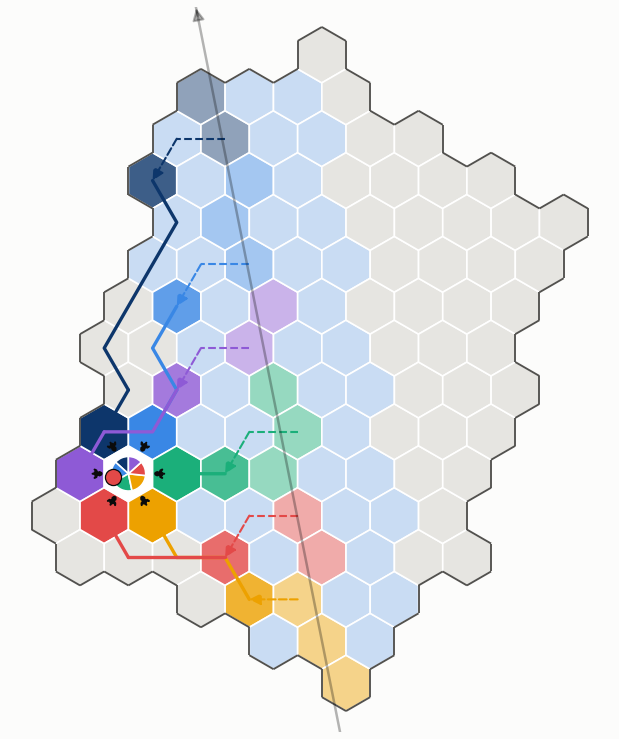
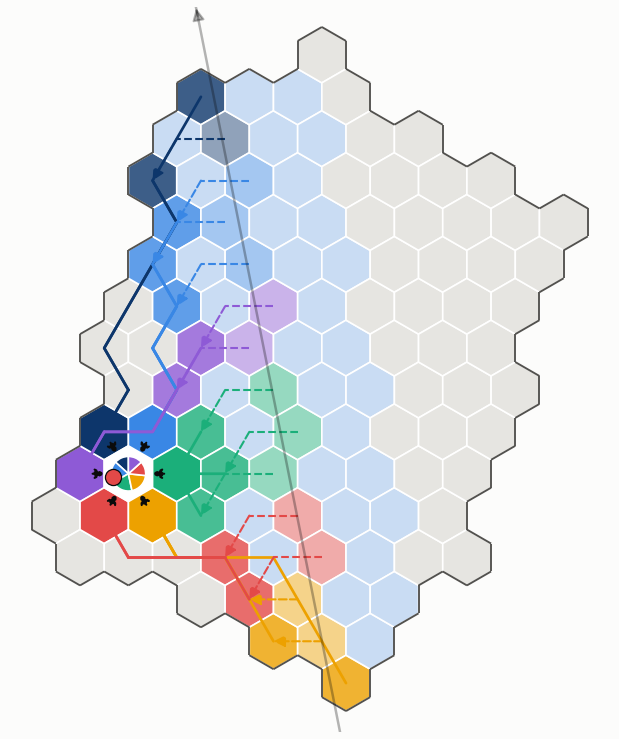
uav-coop2: layer-3 review — Circle fetches each Seg from its own Bank, paths may cross the River, after-pass algorithms 5-7 and execution conventions; trial plan (TRIAL-vi.md); CLAUDE.md §8 message 47
Claude-Session: https://claude.ai/code/session_01Anfb7cgF7DRSZmbbNnHpxR

diff --git a/uav-coop2/tools/concept_cells.py b/uav-coop2/tools/concept_cells.py
@@ -16,9 +16,9 @@ critical cells, Circle.
                  the best within two rings and above mean + 1 sd
   Circle         the 6 neighbours of a critical cell; the Axe is cut into 6 consecutive
                  stretches, one per neighbour (further along the flight -> further along the
-                 Axe); each neighbour fetches its stretch from the nearest of that stretch's
-                 Banks, along a cell path that avoids the Axe and the critical cell, and hands
-                 it over on request
+                 Axe); each neighbour fetches Seg(a) of every Axe cell a in its stretch from a's
+                 own Bank (the side nearer the neighbour), along shortest cell paths that avoid
+                 only the critical cell, and hands it over on request
 """
 import argparse, csv, math, os
 from collections import deque
@@ -258,11 +258,13 @@ def main():
         mine = [g for g in axe if owner[g] == j]
         if not mine:
             continue
-        # the nearest of this stretch's Banks (either side) to the neighbour
-        b = min({pair[(g, s_)][0] for g in mine for s_ in (0, 1)},
-                key=lambda b: (hexdist(b, h), math.dist(c[b], c[h])))
-        used[j] = (mine, b)
-        col[b] = matplotlib.colors.to_rgba(CAT[j], .8)
+        # each Axe cell's Seg comes from that cell's own Bank, the side nearer the neighbour
+        src = []
+        for g in mine:
+            s_ = min((0, 1), key=lambda s_: (hexdist(pair[(g, s_)][0], h), math.dist(c[pair[(g, s_)][0]], c[h])))
+            src.append((g, s_, pair[(g, s_)][0]))
+            col[pair[(g, s_)][0]] = matplotlib.colors.to_rgba(CAT[j], .8)
+        used[j] = (mine, src)
     frame(ax, col, .3)
     share = [len(used[j][0]) if j in used else 0 for j in range(6)]
     a0 = 90.0
@@ -271,11 +273,12 @@ def main():
             a1 = a0 + 360 * share[j] / len(axe)
             ax.add_patch(Wedge(c[cc], R * .62, a0, a1, facecolor=CAT[j], edgecolor="#ffffff", lw=.8, zorder=4))
             a0 = a1
-    for j, (mine, b) in used.items():
-        g, s_ = next((g, s_) for g in mine for s_ in (0, 1) if pair[(g, s_)][0] == b)
-        if g != b:
-            route(ax, pair[(g, s_)][1], CAT[j], 1.0, "--")
-        route(ax, cellpath(b, circ[j], (S - set(axe) - {cc}) | {b}), CAT[j], 1.6)
+    for j, (mine, src) in used.items():
+        for g, s_, b in src:
+            if g != b:
+                route(ax, pair[(g, s_)][1], CAT[j], 1.0, "--")
+            if b != circ[j]:
+                route(ax, cellpath(b, circ[j], S - {cc}), CAT[j], 1.3)
         v = np.array(c[cc]) - np.array(c[circ[j]])
         v /= np.linalg.norm(v)
         ax.add_patch(FancyArrowPatch(np.array(c[circ[j]]) + v * R * .3, np.array(c[cc]) - v * R * .68,

diff --git a/uav-coop2/docs/TRIAL-vi.md b/uav-coop2/docs/TRIAL-vi.md
@@ -1,0 +1,112 @@
+# Kế hoạch cài đặt thử nghiệm cơ chế River (lớp 3)
+
+Cơ chế: [L3-vi.md](L3-vi.md), Thuật toán 1–7. Mô tả gốc: CLAUDE.md §8, mục 38–47.
+
+## 1. Rà soát: cơ chế đã đủ để cài đặt chưa
+
+| bước | ai chạy, khi nào | thuật toán | trạng thái |
+|---|---|---|---|
+| Lập bảng Axe, giao đoạn Seg | BS, trước giờ bay | 1 | đủ |
+| Dựng River: Bank và cell path | mỗi cell Axe, trước giờ bay | 2 | đủ |
+| Chọn critical cell | CH, trước giờ bay | 3 | đủ |
+| Dựng Circle, giao nhiệm vụ cho hàng xóm | CH, trước giờ bay | 4 | đủ (đã sửa: mỗi đoạn Seg lấy từ Bank của chính đoạn đó) |
+| Gom dữ liệu trong cell về CL | mọi cell, ngay khi UAV rời đi | quy ước 1 | dùng lại cơ chế tóm tắt của `uav-coop`, thêm phần chuyển dữ liệu |
+| Axe bổ sung cho Bank | sau lượt bay | 5 | đủ |
+| Circle kéo dữ liệu về và giao | sau lượt bay | 6 | đủ |
+| Critical cell yêu cầu | sau lượt bay | 7 | đủ |
+| Chuyển cell path thành đường node | mọi chặng | quy ước 2 | dùng lại bảng tuyến của `uav-coop` |
+| Định dạng yêu cầu | mọi yêu cầu | quy ước 3 | dùng lại bộ mã manifest của `uav-coop` |
+
+Những điểm đã sửa trong lần rà soát này:
+1. **Thuật toán 4:** trước đây mỗi hàng xóm chỉ lấy từ một Bank. Nhưng một Bank chỉ được bổ sung
+   đúng đoạn Seg của Axe của nó, nên bây giờ hàng xóm lấy **từng đoạn Seg từ Bank của chính
+   đoạn đó**.
+2. **Cell path từ Bank tới Circle được đi qua River.** Nếu cấm, Axe cắt cụm làm hai, và một Bank
+   ở bờ bên kia không còn đường nào tới Circle. Điều này đã thấy trên cụm thử.
+3. **Bổ sung ba thuật toán chạy sau lượt bay (5–7) và ba quy ước thực thi.** Trước đây chỉ có
+   phần lập kế hoạch.
+
+## 2. Tham số của bản thử đầu
+
+| tham số | giá trị |
+|---|---|
+| triển khai | seed 1, 109 cell, spacing 35 m, 2 312 node, CH #136 |
+| đường bay | thẳng qua CH, `--angle=180` (`docs/data/path-a180.csv`) |
+| luồng phát | 50 m/s, 10 ms một gói; $\lvert\mathcal{D}\rvert\approx4\,600$ gói trong cụm |
+| River | $W=3{,}5$ cell ($\omega=303$ m, PER 1,1 %) |
+| critical cell | $\kappa_g=2$, $\kappa_l=1$, $r=2$ → 7 critical cell |
+| Circle | 6 hàng xóm, không gộp các Circle |
+| kênh G2G | n = 3,5, che khuất tĩnh σ = 7,8 dB, Rayleigh theo khối 100 ms (`coop-g2g.h`) |
+
+## 3. Đầu vào còn thiếu
+
+**Bitmap thu của đường bay thẳng chưa có.** Lượt chạy trước chỉ lưu số gói nhận và chuỗi dài
+nhất của mỗi node, không lưu từng gói. Bản thử cần biết chính xác node nào có gói nào.
+
+Cần chạy `uav-coop-pass --bits` trên `path-a180.csv`:
+- 120 lượt bay, 4 tiến trình;
+- khoảng **40 phút**, khoảng 210 MB, đặt trong thư mục scratch.
+
+Đây là việc tốn thời gian nên **chỉ chạy khi người dùng đồng ý**. Trong lúc chờ, có thể viết và
+kiểm tra bản thử trên bitmap đã có của đường bay cơ sở (đường hình chữ U).
+
+## 4. Bản thử bước 1: mô phỏng mức logic
+
+Bản thử này tương tự `coop-manifest` của `uav-coop`: hướng sự kiện, nhanh, và cho cận lạc quan.
+
+- **Mã nguồn:** module ns-3 `uav-coop2` mới, liên kết với `uav-coop` để dùng lại tuyến, bộ mã
+  manifest và kênh. Chương trình chính là `examples/coop2-river.cc`.
+- **Vào:** triển khai, đường bay, bitmap thu theo từng lượt bay.
+- **Mô hình liên kết:**
+  - mỗi khung đi qua một chặng chiếm một khe 10 ms;
+  - mỗi chặng thành công với xác suất tính từ kênh G2G; nếu thất bại thì gửi lại;
+  - mỗi node chỉ phát hoặc nhận một khung mỗi khe (bán song công);
+  - các cặp gateway có kênh riêng;
+  - trong một cell, mỗi khe chỉ một node được phát.
+- **Gom trong cell về CL:** chuyển phần hợp dữ liệu của cell lên CL theo cây tới CL, mỗi chặng tốn
+  một khe.
+- **Ra cho mỗi lượt bay:**
+  - với mỗi critical cell: thời điểm có đủ $\mathcal{D}$, số gói thiếu ban đầu, số gói nhận được
+    từ từng hàng xóm;
+  - với mỗi liên kết: số khung đi qua, để thấy nút thắt;
+  - tổng số lần phát.
+- **Kiểm tra trong chương trình** (CHECK như các bản trước):
+  - mỗi critical cell cuối cùng có đủ $\mathcal{D}$, trừ những gói không node nào nhận được;
+  - dữ liệu chỉ đi qua các cell path đã định và gateway đã định;
+  - không node nào phát hoặc nhận hai khung trong cùng một khe;
+  - thời gian của mỗi critical cell không nhỏ hơn cận dưới $\lvert\mathrm{Lack}(k)\rvert\cdot\tau$.
+
+## 5. Phương án so sánh
+
+| phương án | mô tả |
+|---|---|
+| **River** | Thuật toán 1–7 |
+| **Kéo thẳng** | mỗi critical cell yêu cầu trực tiếp từng cell Axe theo cell path ngắn nhất, không có Bank hay Circle |
+| **Manifest** | cơ chế manifest của `uav-coop` (đã đóng gói), chỉnh lại cho đích là các critical cell |
+| **Cận dưới** | $\lvert\mathrm{Lack}(k)\rvert\cdot\tau$ cho mỗi critical cell |
+
+**Thước đo:**
+- thời gian hoàn tất: trung vị, p90, max qua các critical cell và qua 120 lượt bay;
+- tổng số lần phát;
+- tải của liên kết bận nhất.
+
+## 6. Thứ tự làm và thời gian
+
+1. Viết `coop2-river.cc` (Thuật toán 1–7 và các kiểm tra), thử trên bitmap của đường cơ sở.
+   Mỗi lần chạy mất vài phút.
+2. *(cần đồng ý)* Chạy pass có bitmap cho đường bay thẳng, khoảng 40 phút.
+3. Chạy River, Kéo thẳng và Manifest trên cùng 120 lượt bay, mỗi phương án vài phút. Vẽ hình
+   và viết kết quả.
+4. Nếu kết quả hợp lý thì bàn tiếp về bản mô phỏng mức vô tuyến (ns-3) cho một vài cấu hình.
+
+## 7. Câu hỏi nghiên cứu phụ (ngoài phạm vi bài này)
+
+1. **Độ rộng River tối ưu:** cân bằng giữa chi phí bổ sung Axe → Bank (tăng nhanh theo $\omega$
+   khi PER vượt khoảng 5 %) và chi phí Bank → Circle (giảm theo $\omega$).
+2. **Bank với đường bay cong:** các đường song song không còn phù hợp. Hướng thay thế: lấy Bank
+   trên đường cách đều đường bay một khoảng $\omega$, rồi ghép mỗi Bank với cell Axe có
+   $d_{\mathrm{track}}$ gần nhất.
+3. **Hai critical cell kề nhau:** gộp thành một Circle chung (ví dụ chuỗi (−5,0), (−5,1), (−4,−1)
+   trong cụm thử).
+4. **Circle 12:** quy tắc mở rộng theo lượng dữ liệu thiếu. Mở rộng giúp kéo dữ liệu về nhanh
+   hơn, nhưng không tăng tốc độ dữ liệu vào critical cell.

diff --git a/uav-coop2/README.md b/uav-coop2/README.md
@@ -16,8 +16,8 @@ Files count only as runs of consecutive packets, and the path can be bent with
 `uav-coop-deploy --angle` — [`docs/RUNS-vi.md`](docs/RUNS-vi.md).
 Layer 3 (the paper's contribution): the River scheme — problem statement and short
 and full pseudocode (Axe table at the BS, River set-up at each Axe cell, critical cells,
-Circle) — [`docs/L3-vi.md`](docs/L3-vi.md);
-sketches by `tools/concept_cells.py`.
+Circle, and after the pass: Axe → Bank fill, Circle fill, critical pull) — [`docs/L3-vi.md`](docs/L3-vi.md);
+sketches by `tools/concept_cells.py`. Readiness review and trial plan — [`docs/TRIAL-vi.md`](docs/TRIAL-vi.md).
 
 ## Layout
 ```
@@ -25,6 +25,6 @@ uav-coop2/
 ├── tools/state_report.py   # who holds what after the pass: per node, per cell (zones A/B/C)
 ├── tools/runs_report.py    # whole files from consecutive packets only, across flight paths
 ├── tools/concept_cells.py  # cell-level sketches of the River scheme (no text)
-└── docs/                   # STATE-vi.md, RUNS-vi.md, L3-vi.md, figures/, data/
+└── docs/                   # STATE-vi.md, RUNS-vi.md, L3-vi.md, TRIAL-vi.md, figures/, data/
 ```
 The ns-3 module (linking `uav-coop`) is added with the first C++ of the new scheme.
